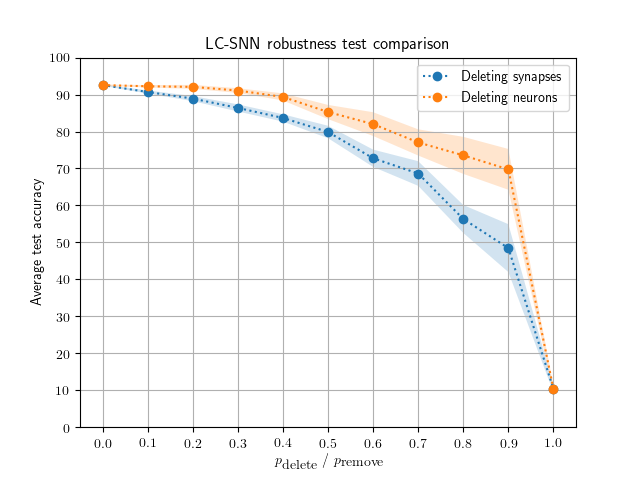
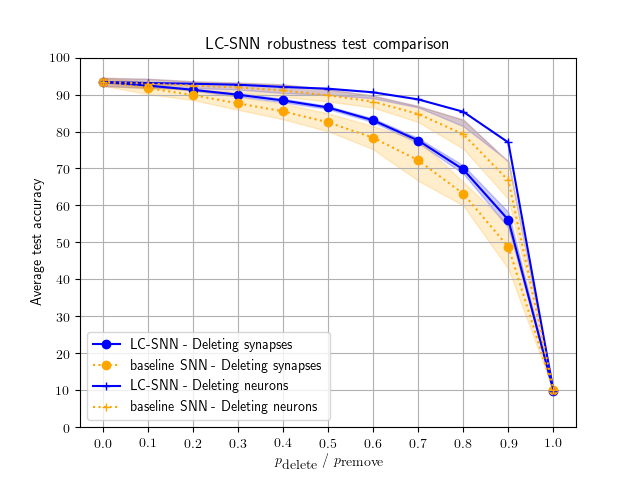
Updating robustness results + plot.

Changed region(s): [[0.1562, 0.125, 0.875, 0.8438], [0.125, 0.6875, 0.5312, 0.875]]

diff --git a/experiments/analysis/plot_lcsnn_robustness.py b/experiments/analysis/plot_lcsnn_robustness.py
@@ -12,13 +12,17 @@ probs = np.array([0, 0.1, 0.2, 0.3, 0.4, 0.5, 0.6, 0.7, 0.8, 0.9, 1])
 synapse_means = np.array([93.38, 92.45, 91.29, 89.96, 88.41, 86.51, 83.04, 77.57, 69.74, 56.09, 9.8])
 synapse_stds = np.array([0.12, 0.12, 0.23, 0.46, 0.5, 0.41, 0.49, 0.67, 1.09, 2.1, 0])
 
-dac_synapse_means = np.array()
-dac_synapse_stds = np.array()
+dac_synapse_means = np.array([93.46, 91.73, 89.88, 87.62, 85.47, 82.49, 78.33, 72.21, 63.17, 48.77, 9.96])
+dac_synapse_stds = np.array([1.07, 1.59, 1.37, 1.73, 2.15, 2.42, 3.11, 5.51, 3.18, 5.91, 0])
 
 plt.plot(probs, synapse_means, 'o-', color='blue', label='LC-SNN - Deleting synapses')
-plt.fill_between(probs, synapse_means - synapse_stds, synapse_means + synapse_stds, alpha=0.2)
+plt.fill_between(
+    probs, synapse_means - synapse_stds, synapse_means + synapse_stds, alpha=0.2, color='blue'
+)
 plt.plot(probs, dac_synapse_means, 'o:', color='orange', label='baseline SNN - Deleting synapses')
-plt.fill_between(probs, dac_synapse_means - dac_synapse_stds, dac_synapse_means + dac_synapse_stds, alpha=0.2)
+plt.fill_between(
+    probs, dac_synapse_means - dac_synapse_stds, dac_synapse_means + dac_synapse_stds, alpha=0.2, color='orange'
+)
 
 neuron_means = np.array([93.42, 93.12, 92.92, 92.66, 92.06, 91.59, 90.61, 88.69, 85.35, 77.04, 9.8])
 neuron_stds = np.array([0.14, 0.13, 0.11, 0.08, 0.1, 0.17, 0.23, 0.66, 1.16, 2.94, 0])
@@ -27,9 +31,13 @@ dac_neuron_means = np.array([93.44, 92.98, 92.43, 91.94, 91.1, 89.79, 88.08, 84.
 dac_neuron_stds = np.array([1.1, 1.3, 1.16, 1.3, 1.66, 1.65, 1.62, 2.16, 3.93, 5.03, 0])
 
 plt.plot(probs, neuron_means, '+-', color='blue', label='LC-SNN - Deleting neurons')
-plt.fill_between(probs, neuron_means - neuron_stds, neuron_means + neuron_stds, alpha=0.2)
-plt.plot(probs, neuron_means, '+:', color='orange', label='baseline SNN - Deleting neurons')
-plt.fill_between(probs, neuron_means - neuron_stds, neuron_means + neuron_stds, alpha=0.2)
+plt.fill_between(
+    probs, neuron_means - dac_neuron_stds, dac_neuron_means + dac_neuron_stds, alpha=0.2, color='blue'
+)
+plt.plot(probs, dac_neuron_means, '+:', color='orange', label='baseline SNN - Deleting neurons')
+plt.fill_between(
+    probs, dac_neuron_means - dac_neuron_stds, dac_neuron_means + dac_neuron_stds, alpha=0.2, color='orange'
+)
 
 plt.legend()
 plt.grid()
